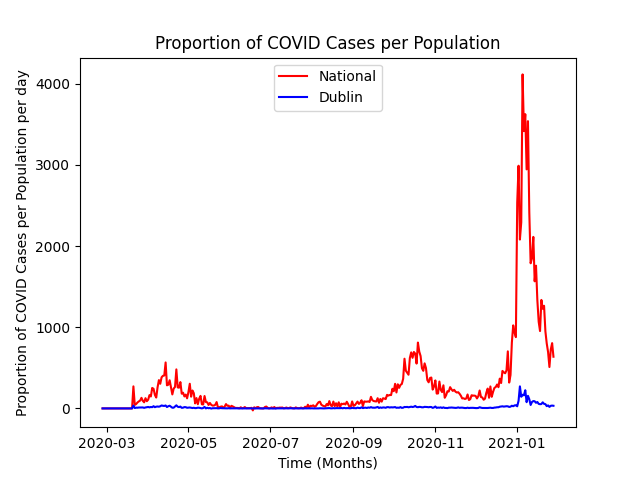
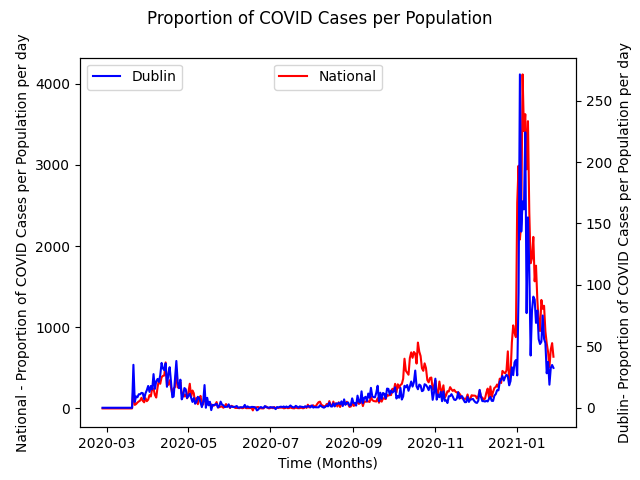
Populations added

diff --git a/Project Draft.py b/Project Draft.py
@@ -13,8 +13,8 @@ covid_df['TimeStamp']=pd.to_datetime(covid_df['TimeStamp'])
 covid_pt = covid_df.pivot_table(index=pd.Grouper(freq='D', key='TimeStamp'), columns='CountyName', values='ConfirmedCovidCases', aggfunc='sum')
 National = covid_pt.sum(axis="columns")
 covid_pt["National"] = National
-covid_pt["Dub_percentage"]=covid_pt['Dublin']/covid_pt['National']
 print(covid_pt)
+
 
 fc=plt.subplots
 
@@ -22,7 +22,7 @@ fig0, ax = fc()
 ax.plot(covid_pt.index, covid_pt["Dublin"], color='b', label='Dublin')
 ax.plot(covid_pt.index, covid_pt["National"], color='r', label ='National')
 ax.set_xlabel("Time (Months)")
-ax.set_ylabel("Confirmed Covid Cases per day")
+ax.set_ylabel("Confirmed Covid Cases")
 ax.legend(loc="upper center")
 ax.set_title("Confirmed Covid Cases")
 plt.show()
@@ -46,20 +46,6 @@ ax.legend(loc="upper center")
 plt.show()
 fig1.savefig("New Covid Cases")
 
-fc=plt.subplots
-
-fig2, ax = fc(2,1, sharex=True)
-fig2.suptitle('New Covid Cases V2')
-ax[1].plot(NewCases_df2.index, NewCases_df2["Dublin"], color='b',label='Dublin')
-ax[0].plot(NewCases_df2.index, NewCases_df2["National"], color='r',label='National')
-ax[1].set_xlabel("Time (Months)")
-ax[0].set_ylabel("New Covid Cases")
-ax[1].set_ylabel("New Covid Cases")
-ax[0].legend(loc="upper center")
-ax[1].legend(loc="upper center")
-plt.show()
-fig2.savefig('New Covid Cases V2')
-
 
 pop_pt = covid_df.pivot_table(index=pd.Grouper(freq='D', key='TimeStamp'), columns='CountyName', values='PopulationProportionCovidCases', aggfunc='sum')
 National = pop_pt.sum(axis="columns")
@@ -73,19 +59,30 @@ print(Pop_df.isna().sum())
 Pop_df2=Pop_df.fillna(0)
 print(Pop_df2)
 
+population_pt = covid_df.pivot_table(columns='CountyName', values='PopulationCensus16')
+National = population_pt.sum(axis="columns")
+population_pt["National"] = National
+print(population_pt)
+df2=population_pt.loc[:, ['Dublin', 'National']]
+print(df2)
 
-fig3, ax = fc()
+
+fig2, ax = fc()
+fig2.suptitle('Proportion of COVID Cases per Population')
 ax.plot(Pop_df2.index, Pop_df2["National"], color='r', label='National')
-ax.plot(Pop_df2.index, Pop_df2["Dublin"], color='b', label='Dublin')
 ax.set_xlabel("Time (Months)")
-ax.set_ylabel("Proportion of COVID Cases per Population per day")
-ax.set_title("Proportion of COVID Cases per Population")
+ax.set_ylabel("National - Proportion of COVID Cases per Population per day")
 ax.legend(loc="upper center")
+ax2= ax.twinx()
+ax2.plot(Pop_df2.index, Pop_df2["Dublin"], color='b', label='Dublin')
+ax2.set_xlabel("Time (Months)")
+ax2.set_ylabel("Dublin- Proportion of COVID Cases per Population per day")
+ax2.legend(loc="upper left")
 plt.show()
-fig3.savefig("Proportion of COVID Cases per Population")
+fig2.savefig("Proportion of COVID Cases per Population")
 
-fig4, ax = fc(2, sharex=True)
-fig4.suptitle('New COVID Cases vs Proportion of New COVID Cases per Population')
+fig3, ax = fc(2, sharex=True)
+fig3.suptitle('New COVID Cases vs Proportion of New COVID Cases per Population')
 ax[0].plot(NewCases_df2.index, NewCases_df2["National"], color='r',label='National'),
 ax[0].plot(NewCases_df2.index, NewCases_df2["Dublin"], color='b', label='Dublin')
 ax[1].plot(Pop_df2.index, Pop_df2["Dublin"], color='b', label='Dublin')
@@ -96,4 +93,4 @@ ax[1].set_ylabel("Proportion per Population")
 ax[0].legend(loc="upper center")
 plt.show()
 
-fig4.savefig("New COVID Cases vs Proportion of New COVID Cases per Population")
+fig3.savefig("New COVID Cases vs Proportion of New COVID Cases per Population")
